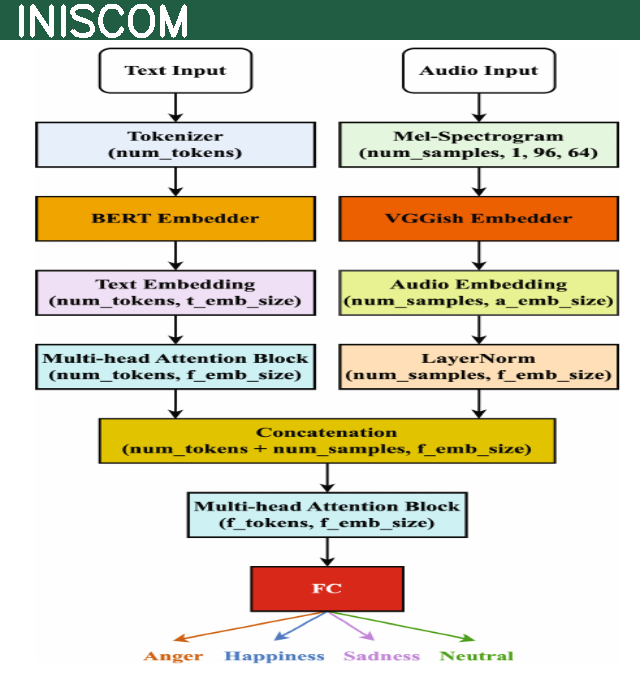
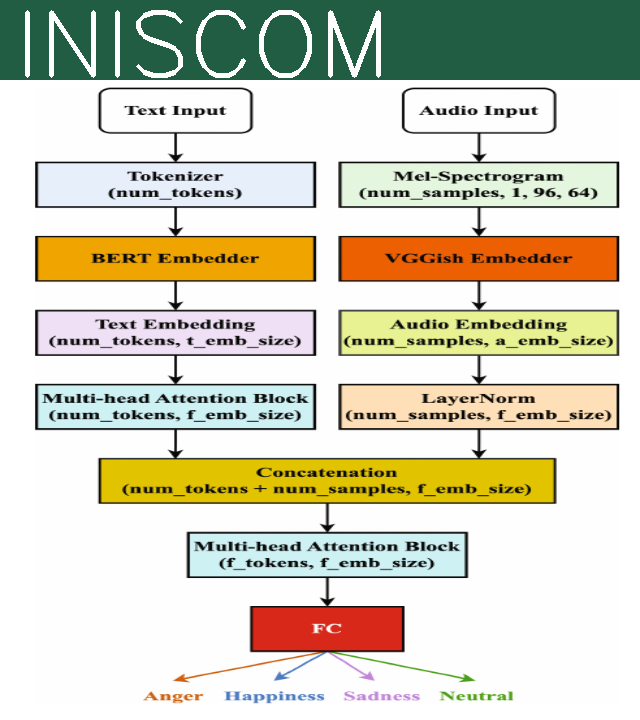
fix: title preview publication papers

diff --git a/assets/img/publication_preview/add_icon.py b/assets/img/publication_preview/add_icon.py
@@ -16,9 +16,9 @@ def main(args):
     filename, ext = os.path.splitext(args.img_path)
     img = cv2.imread(args.img_path)
     img = cv2.resize(img,(640,640) )
-    title = np.ones((40,640,3)) * color
+    title = np.ones((80,640,3)) * color
     title = title.astype(np.uint8)
-    cv2.putText(title, args.abbreviation, (15,35),cv2.FONT_HERSHEY_SIMPLEX  ,1.4, (255,255,255),3)
+    cv2.putText(title, args.abbreviation, (15,75),cv2.FONT_HERSHEY_SIMPLEX  ,3, (255,255,255),3)
     img = np.concatenate([title, img], axis = 0)
     cv2.imwrite(filename+"_icon"+ext, img)
 
